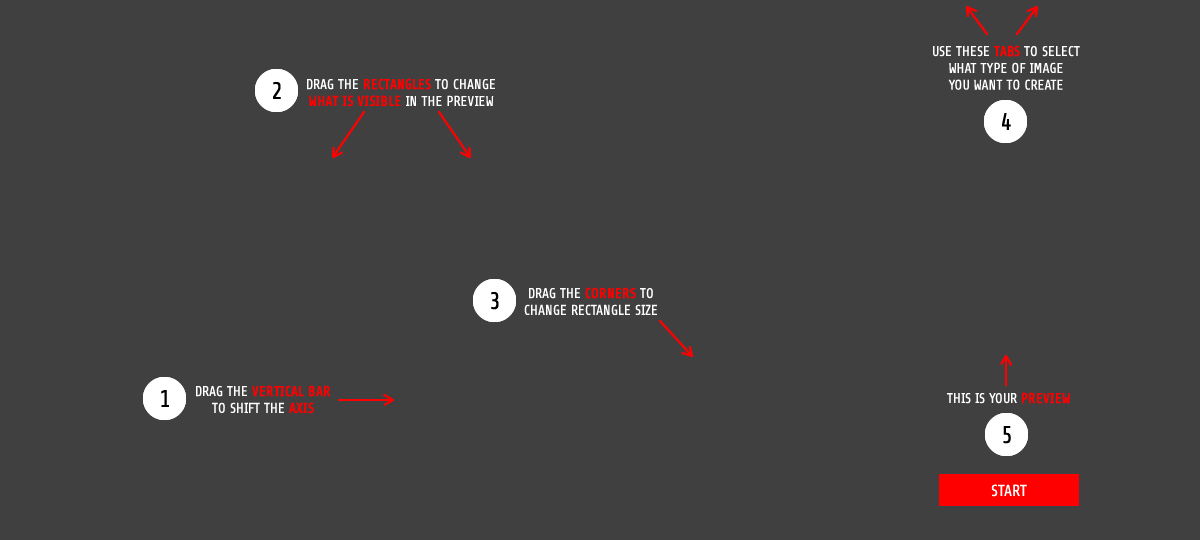
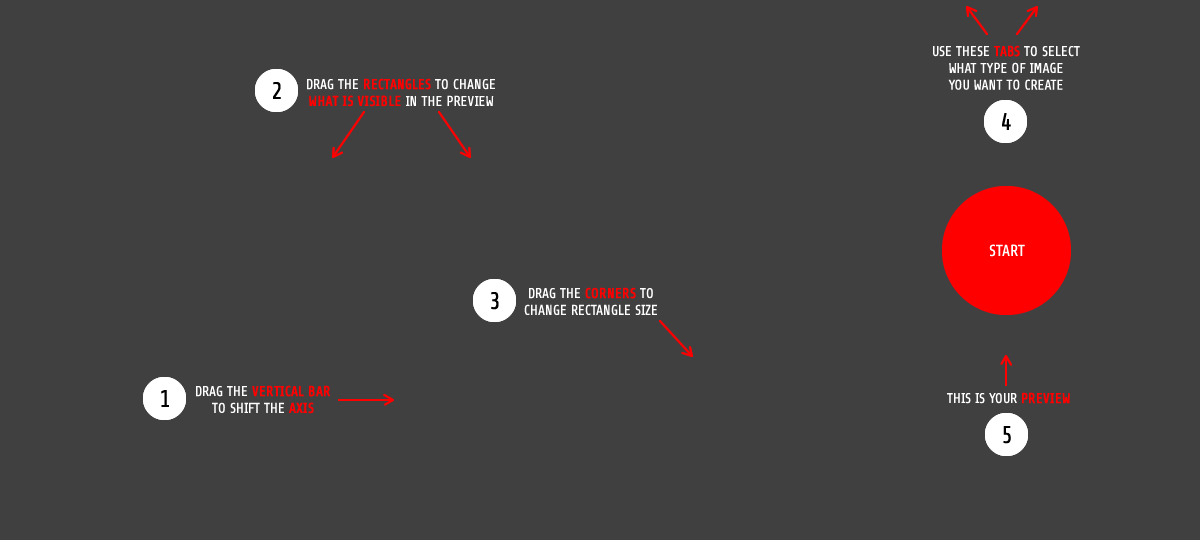
Changed instructions

Changed region(s): [[0.7708, 0.3259, 0.8942, 0.5926], [0.7708, 0.8593, 0.925, 0.9481]]

diff --git a/public/assets/application-d2351b74e3afbace63bfc9821aa02545.css b/public/assets/application-d2351b74e3afbace63bfc9821aa02545.css
@@ -1,0 +1,1 @@
+:link,:visited,ins{text-decoration:none}nav ul,nav ol{list-style:none}h1,h2,h3,h4,h5,h6,pre,code,kbd{font-size:1em}dl,ul,ol,li,h1,h2,h3,h4,h5,h6,html,body,pre,p,blockquote,form,fieldset,input,label{margin:0;padding:0}abbr,img,object,a img,:link img,:visited img,a object,:link object,:visited object{border:0}address,abbr{font-style:normal}iframe:not(.auto-link){display:none !important;visibility:hidden !important;margin-left:-10000px !important}body{min-width:960px}.container_12,.container_16{margin-left:auto;margin-right:auto;width:960px}.grid_1,.grid_2,.grid_3,.grid_4,.grid_5,.grid_6,.grid_7,.grid_8,.grid_9,.grid_10,.grid_11,.grid_12,.grid_13,.grid_14,.grid_15,.grid_16{display:inline;float:left;margin-left:10px;margin-right:10px}.push_1,.pull_1,.push_2,.pull_2,.push_3,.pull_3,.push_4,.pull_4,.push_5,.pull_5,.push_6,.pull_6,.push_7,.pull_7,.push_8,.pull_8,.push_9,.pull_9,.push_10,.pull_10,.push_11,.pull_11,.push_12,.pull_12,.push_13,.pull_13,.push_14,.pull_14,.push_15,.pull_15{position:relative}.container_12 .grid_3,.container_16 .grid_4{width:220px}.container_12 .grid_6,.container_16 .grid_8{width:460px}.container_12 .grid_9,.container_16 .grid_12{width:700px}.container_12 .grid_12,.container_16 .grid_16{width:940px}.alpha{margin-left:0}.omega{margin-right:0}.container_12 .grid_1{width:60px}.container_12 .grid_2{width:140px}.container_12 .grid_4{width:300px}.container_12 .grid_5{width:380px}.container_12 .grid_7{width:540px}.container_12 .grid_8{width:620px}.container_12 .grid_10{width:780px}.container_12 .grid_11{width:860px}.container_16 .grid_1{width:40px}.container_16 .grid_2{width:100px}.container_16 .grid_3{width:160px}.container_16 .grid_5{width:280px}.container_16 .grid_6{width:340px}.container_16 .grid_7{width:400px}.container_16 .grid_9{width:520px}.container_16 .grid_10{width:580px}.container_16 .grid_11{width:640px}.container_16 .grid_13{width:760px}.container_16 .grid_14{width:820px}.container_16 .grid_15{width:880px}.container_12 .prefix_3,.container_16 .prefix_4{padding-left:240px}.container_12 .prefix_6,.container_16 .prefix_8{padding-left:480px}.container_12 .prefix_9,.container_16 .prefix_12{padding-left:720px}.container_12 .prefix_1{padding-left:80px}.container_12 .prefix_2{padding-left:160px}.container_12 .prefix_4{padding-left:320px}.container_12 .prefix_5{padding-left:400px}.container_12 .prefix_7{padding-left:560px}.container_12 .prefix_8{padding-left:640px}.container_12 .prefix_10{padding-left:800px}.container_12 .prefix_11{padding-left:880px}.container_16 .prefix_1{padding-left:60px}.container_16 .prefix_2{padding-left:120px}.container_16 .prefix_3{padding-left:180px}.container_16 .prefix_5{padding-left:300px}.container_16 .prefix_6{padding-left:360px}.container_16 .prefix_7{padding-left:420px}.container_16 .prefix_9{padding-left:540px}.container_16 .prefix_10{padding-left:600px}.container_16 .prefix_11{padding-left:660px}.container_16 .prefix_13{padding-left:780px}.container_16 .prefix_14{padding-left:840px}.container_16 .prefix_15{padding-left:900px}.container_12 .suffix_3,.container_16 .suffix_4{padding-right:240px}.container_12 .suffix_6,.container_16 .suffix_8{padding-right:480px}.container_12 .suffix_9,.container_16 .suffix_12{padding-right:720px}.container_12 .suffix_1{padding-right:80px}.container_12 .suffix_2{padding-right:160px}.container_12 .suffix_4{padding-right:320px}.container_12 .suffix_5{padding-right:400px}.container_12 .suffix_7{padding-right:560px}.container_12 .suffix_8{padding-right:640px}.container_12 .suffix_10{padding-right:800px}.container_12 .suffix_11{padding-right:880px}.container_16 .suffix_1{padding-right:60px}.container_16 .suffix_2{padding-right:120px}.container_16 .suffix_3{padding-right:180px}.container_16 .suffix_5{padding-right:300px}.container_16 .suffix_6{padding-right:360px}.container_16 .suffix_7{padding-right:420px}.container_16 .suffix_9{padding-right:540px}.container_16 .suffix_10{padding-right:600px}.container_16 .suffix_11{padding-right:660px}.container_16 .suffix_13{padding-right:780px}.container_16 .suffix_14{padding-right:840px}.container_16 .suffix_15{padding-right:900px}.container_12 .push_3,.container_16 .push_4{left:240px}.container_12 .push_6,.container_16 .push_8{left:480px}.container_12 .push_9,.container_16 .push_12{left:720px}.container_12 .push_1{left:80px}.container_12 .push_2{left:160px}.container_12 .push_4{left:320px}.container_12 .push_5{left:400px}.container_12 .push_7{left:560px}.container_12 .push_8{left:640px}.container_12 .push_10{left:800px}.container_12 .push_11{left:880px}.container_16 .push_1{left:60px}.container_16 .push_2{left:120px}.container_16 .push_3{left:180px}.container_16 .push_5{left:300px}.container_16 .push_6{left:360px}.container_16 .push_7{left:420px}.container_16 .push_9{left:540px}.container_16 .push_10{left:600px}.container_16 .push_11{left:660px}.container_16 .push_13{left:780px}.container_16 .push_14{left:840px}.container_16 .push_15{left:900px}.container_12 .pull_3,.container_16 .pull_4{left:-240px}.container_12 .pull_6,.container_16 .pull_8{left:-480px}.container_12 .pull_9,.container_16 .pull_12{left:-720px}.container_12 .pull_1{left:-80px}.container_12 .pull_2{left:-160px}.container_12 .pull_4{left:-320px}.container_12 .pull_5{left:-400px}.container_12 .pull_7{left:-560px}.container_12 .pull_8{left:-640px}.container_12 .pull_10{left:-800px}.container_12 .pull_11{left:-880px}.container_16 .pull_1{left:-60px}.container_16 .pull_2{left:-120px}.container_16 .pull_3{left:-180px}.container_16 .pull_5{left:-300px}.container_16 .pull_6{left:-360px}.container_16 .pull_7{left:-420px}.container_16 .pull_9{left:-540px}.container_16 .pull_10{left:-600px}.container_16 .pull_11{left:-660px}.container_16 .pull_13{left:-780px}.container_16 .pull_14{left:-840px}.container_16 .pull_15{left:-900px}.clear{clear:both;display:block;overflow:hidden;visibility:hidden;width:0;height:0}.clearfix:before,.clearfix:after,.container_12:before,.container_12:after,.container_16:before,.container_16:after{content:'.';display:block;overflow:hidden;visibility:hidden;font-size:0;line-height:0;width:0;height:0}.clearfix:after,.container_12:after,.container_16:after{clear:both}.clearfix,.container_12,.container_16{zoom:1}body{background:#000 url(/assets/bodybackground-7f8d4b645b0ee610b5197d63ebe6eb10.png) repeat-x;color:#fff;font-family:share-regular,"Arial Narrow",sans-serif;font-size:14px;line-height:1.8em}#mainContent h1,#mainContent h2,#mainContent h3,#mainContent p{padding:0 5px}h3,.mainParagraph{font-size:16px;line-height:1.4em;margin-top:20px;margin-bottom:1em}p{font-size:1em;margin:0 0 1.4em 0}em{color:#999}a,a:link,a:visited{color:red;text-decoration:underline}a:hover{text-decoration:none}.dim{color:#62656c}.centered{text-align:center}.pagination a,.genericButtonLink,.genericButtonLink:link,.genericButtonLink:visited{background-color:red;padding:10px;color:#fff;text-decoration:none}.pagination a:hover,.genericButtonLink:hover,.genericButtonLink:link:hover,.genericButtonLink:visited:hover{background-color:#fff;color:#000}.pagination span{margin:0 5px}.pagination .first,.pagination .last{display:none}#nypl_bar{font-family:"Kievit","Myriad Pro","Lucida Grande","Calibri",verdana,arial,helvetica,sans-serif;position:relative;height:30px;background:url(/assets/sprites-c612511c548358977c80b3368db09c1c.png) -905px 0 no-repeat #d62828;color:#fff;font-size:14px;margin:0;padding:0 0 0 60px}#nypl_bar div{padding-top:6px}#nypl_bar form{display:inline}#nypl_bar a,#nypl_bar a:link,#nypl_bar a:visited{color:#fff}#page .replace{margin-left:-10000px}#header{position:relative;height:99px;margin:0 10px;border-top:solid 1px #fff;border-bottom:solid 1px #fff}#header h1{position:absolute;left:6px;top:0;margin:0;padding:0;width:360px;height:100px;background:url(/assets/sprites-c612511c548358977c80b3368db09c1c.png) -100px 0 no-repeat}#header h1 a{display:block;width:360px;height:50px}#header ul{position:absolute;list-style-type:none;margin:0;top:70px;left:240px;width:460px}#header ul li{float:left;width:138px!important;height:28px;background-color:#fff;color:#000;text-align:center;font-size:16px;border:solid 1px #fff}#header ul li a,#header ul li a:link,#header ul li a:visited{display:block;margin-top:3px;color:#000;text-decoration:none}#header ul li:hover{background-color:#000}#header ul li:hover a{color:#fff}#header ul li.active{background-color:red}#header ul li.active a{color:#fff}#header ul li.active:hover a{color:#000}#mainContent{background:url(/assets/background-44b997dcb8969b003f7ce4fccd1b37cd.png) repeat-x}#mainContent .thumb{float:left;width:150px;height:155px;margin:0 6px 15px 4px;background:url(/assets/sprites-c612511c548358977c80b3368db09c1c.png) -308px -103px no-repeat}#mainContent .thumb .pad{padding:5px;position:relative}#mainContent .thumb .pad .over{position:absolute;display:block;background:url(/assets/sprites-c612511c548358977c80b3368db09c1c.png) -459px -103px no-repeat;width:140px;height:140px;text-align:center;top:5px;left:5px;cursor:pointer;color:#000;line-height:140px;opacity:0}#mainContent .thumb .pad:hover .over{transition:all 0.4s ease;-moz-transition:all 0.4s ease;-webkit-transition:all 0.4s ease;-o-transition:all 0.4s ease;opacity:1}#mainContent .createTop #nav p{margin:6px 0 9px 0}#mainContent h1.create{width:126px;height:31px;margin:29px 10px 9px 10px;padding:0;background:url(/assets/sprites-c612511c548358977c80b3368db09c1c.png) -255px -351px no-repeat}#mainContent h1.gallery{width:127px;height:31px;margin:29px 10px 15px 10px;padding:0;background:url(/assets/sprites-c612511c548358977c80b3368db09c1c.png) -498px -351px no-repeat}#mainContent h1.welcome{width:207px;height:31px;margin:0;margin-top:29px;margin-bottom:20px;padding:0;background:url(/assets/sprites-c612511c548358977c80b3368db09c1c.png) -38px -351px no-repeat}#mainContent h1.latest{width:100px;height:31px;margin-top:29px;margin-bottom:20px;padding:0;background:url(/assets/sprites-c612511c548358977c80b3368db09c1c.png) -391px -351px no-repeat}#mainContent .meta .create{margin:30px 0}#mainContent .meta .emailShare{display:none}#mainContent .meta .embedCode{width:380px;height:90px;font:16px share-regular,courier,monospace;color:#62656c}#mainContent .meta .shTwitter,#mainContent .meta .shFacebook,#mainContent .meta .shTumblr,#mainContent .meta .shPlus,#mainContent .meta .shReddit{display:inline-block;text-indent:-9999px;margin-right:5px;width:16px;height:16px;background:url(/assets/sprites-c612511c548358977c80b3368db09c1c.png) no-repeat}#mainContent .meta .shTwitter{background-position:-38px -278px}#mainContent .meta .shFacebook{background-position:-55px -278px}#mainContent .meta .shTumblr{background-position:-72px -278px}#mainContent .meta .shPlus{background-position:-89px -278px}#mainContent .meta .shReddit{background-position:-106px -278px}#mainContent .startCreating{width:221px;height:32px;background:url(/assets/sprites-c612511c548358977c80b3368db09c1c.png) -461px 0 no-repeat;margin:0 auto 20px auto}#mainContent .metadata{margin-top:0}#home #explainer .stereo,#home #explainer .diagram,#home #explainer .samples{display:block;float:left}#home #explainer .stereo{width:460px;margin-top:100px}#home #explainer .diagram{width:260px;margin-top:70px}#home #explainer .samples{width:220px}#home #explainer .samples .GIF{margin-bottom:50px}#home .latestImages{float:left;width:320px}#home .latestImages .more{margin-top:20px}#home .quote{margin-top:30px;margin-bottom:30px;font-style:italic}#stereoList{padding:20px 0}#stereoList .stereograph{position:relative;margin-bottom:30px}#stereoList .stereograph .over{position:absolute;display:block;background:rgba(0,0,0,0.5);text-align:center;top:0;left:0;right:0;bottom:0;cursor:pointer;color:#fff;line-height:150px;opacity:0}#stereoList .stereograph:hover .over{transition:all 0.4s ease;-moz-transition:all 0.4s ease;-webkit-transition:all 0.4s ease;-o-transition:all 0.4s ease;opacity:1}#stereogranimator{position:relative;width:1200px;margin:0 auto 30px auto;border-top:solid 1px #fff}#stereogranimator .canvasHolder,#stereogranimator .sideshow{height:540px;float:left;border-bottom:solid 1px #fff}#stereogranimator .canvasHolder{width:800px}#stereogranimator .sideshow{position:relative;width:399px;border-left:solid 1px #fff}#stereogranimator .sideshow #preview{width:399px;height:540px;margin-top:10px}#stereogranimator .sideshow #preview #previewAnaglyph{text-align:center}#stereogranimator .sideshow #preview #previewGIF{margin:0 auto}#stereogranimator .sideshow #process{display:none}#stereogranimator #toggler{position:absolute;width:400px;height:50px;top:-51px;left:0;border-bottom:solid 1px #fff}#stereogranimator #toggler .previewTitle{text-align:center}#stereogranimator #toggler #toggleLinks #toggleAna,#stereogranimator #toggler #toggleLinks #toggleGIF{display:block;float:left;width:200px;height:25px;text-align:center}#stereogranimator #toggler #toggleLinks #toggleAna{height:35px;padding-top:10px}#stereogranimator #toggler #toggleLinks .active{color:#000;text-decoration:none}#stereogranimator #toggler #GIFExtraLinks{height:25px;margin-left:200px}#stereogranimator #toggler #GIFExtraLinks div{padding-left:30px}#stereogranimator #toggler #GIFExtraLinks a{margin-right:6px}#stereogranimator #toggler #GIFExtraLinks a.active{color:#000;text-decoration:none}#stereogranimator #toggler.anaglyphActive{background:url(/assets/sprites-c612511c548358977c80b3368db09c1c.png) 0 -390px}#stereogranimator #toggler.GIFActive{background:url(/assets/sprites-c612511c548358977c80b3368db09c1c.png) -401px -390px}#stereogranimator .nextStep{position:absolute;top:200px;right:0}#stereogranimator .nextStep .generator{margin-top:-5px;padding:6px 10px;background-color:#fff;color:#000}#yescanvas{display:none;position:relative}#nocanvas{display:none;position:relative;width:1200px;margin:0 auto;border-bottom:solid 1px #fff}#nocanvas .message{margin:20px}#nocanvas .message h2{font-size:30px;margin-bottom:30px}#nocanvas .message p{font-size:18px}#nocanvas .buttons{margin:20px}#nocanvas .buttons a{margin:0 10px}#mainContent .instructions{position:absolute;display:block;top:0;left:0;z-index:1;width:1200px;height:540px;background:url(/assets/instructions-a653f369e6c1dfb01c356479da0fa216.png) no-repeat}#mainContent .showInstructions,#mainContent .showInstructions:link{position:absolute;top:-10px;left:-10px;z-index:2;display:block;display:none;width:22px;height:22px;background:url(/assets/sprites-c612511c548358977c80b3368db09c1c.png) -917px -415px no-repeat}#mainContent .showInstructions:hover,#mainContent .showInstructions:link:hover{background-position:-917px -390px}#mainContent #nocanvas .instructions{top:110px}#mainContent #nocanvas .showInstructions{top:98px}#footer{background:#222;padding-top:10px;margin-top:100px}#footer a,#footer a:link,#footer a:visited{color:#fff}.ir{display:block;border:0;text-indent:-999em;overflow:hidden;background-color:transparent;background-repeat:no-repeat;text-align:left;direction:ltr;*line-height:0}.ir br{display:none}.hidden{display:none !important;visibility:hidden}.visuallyhidden{border:0;clip:rect(0 0 0 0);height:1px;margin:-1px;overflow:hidden;padding:0;position:absolute;width:1px}.visuallyhidden.focusable:active,.visuallyhidden.focusable:focus{clip:auto;height:auto;margin:0;overflow:visible;position:static;width:auto}.invisible{visibility:hidden}.clearfix:before,.clearfix:after{content:"";display:table}.clearfix:after{clear:both}.clearfix{*zoom:1}@media print{*{background:transparent !important;color:black !important;box-shadow:none !important;text-shadow:none !important;filter:none !important;-ms-filter:none !important}a,a:visited{text-decoration:underline}a[href]:after{content:" (" attr(href) ")"}abbr[title]:after{content:" (" attr(title) ")"}.ir a:after,a[href^="javascript:"]:after,a[href^="#"]:after{content:""}pre,blockquote{border:1px solid #999;page-break-inside:avoid}thead{display:table-header-group}tr,img{page-break-inside:avoid}img{max-width:100% !important}@page{margin:0.5cm}p,h2,h3{orphans:3;widows:3}h2,h3{page-break-after:avoid}}
